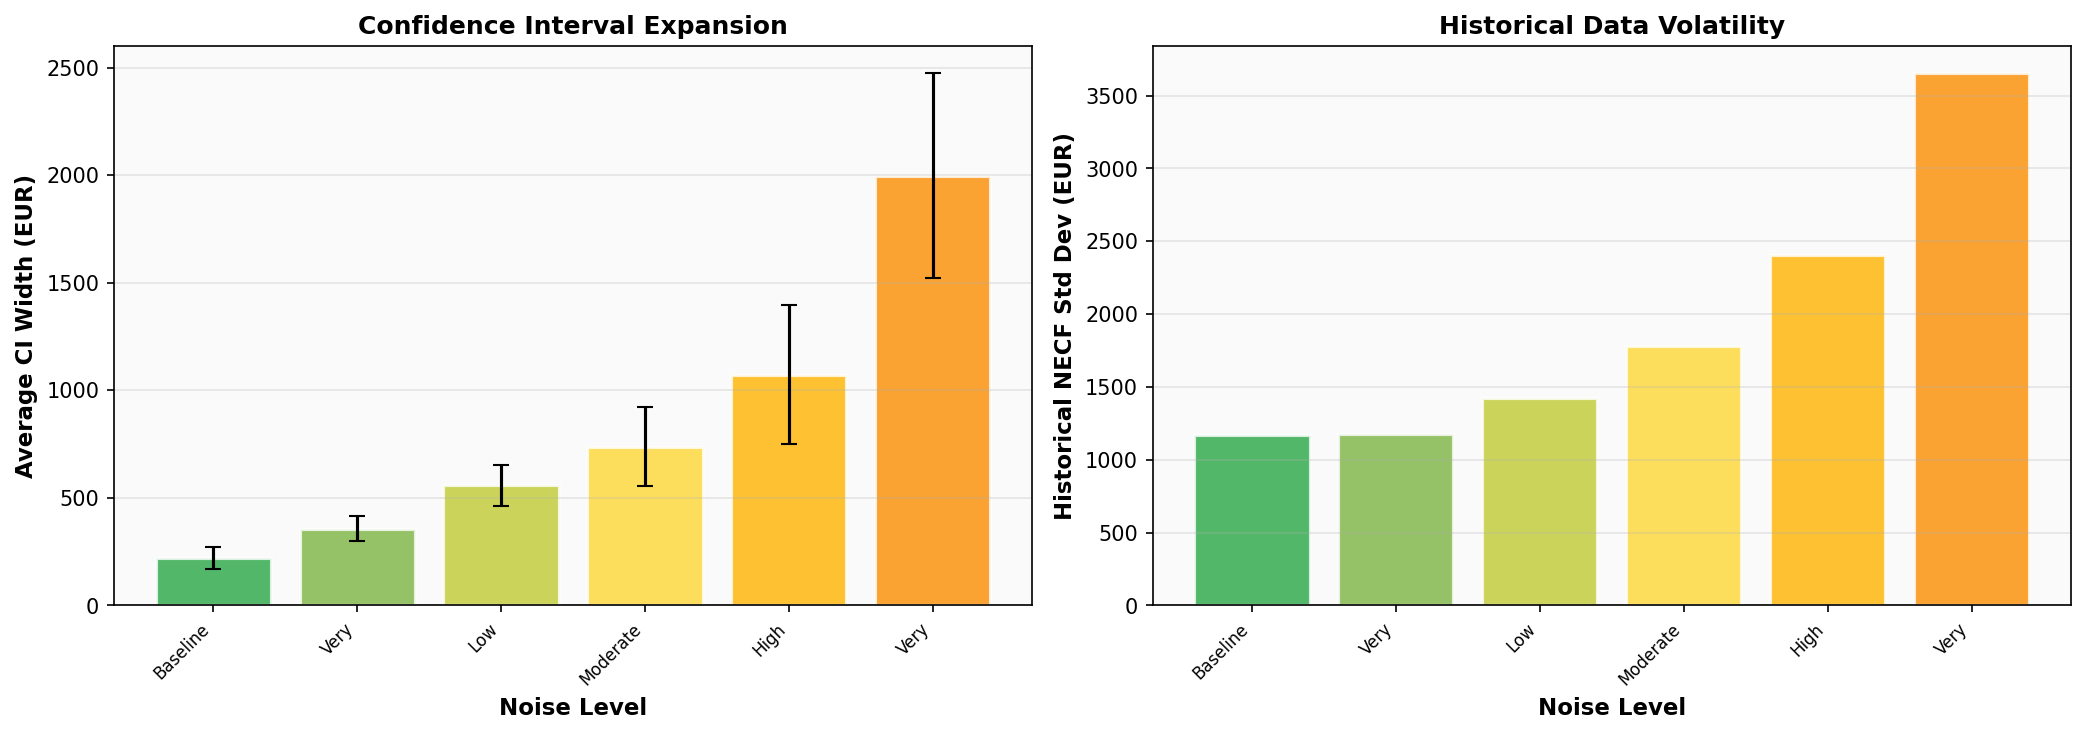
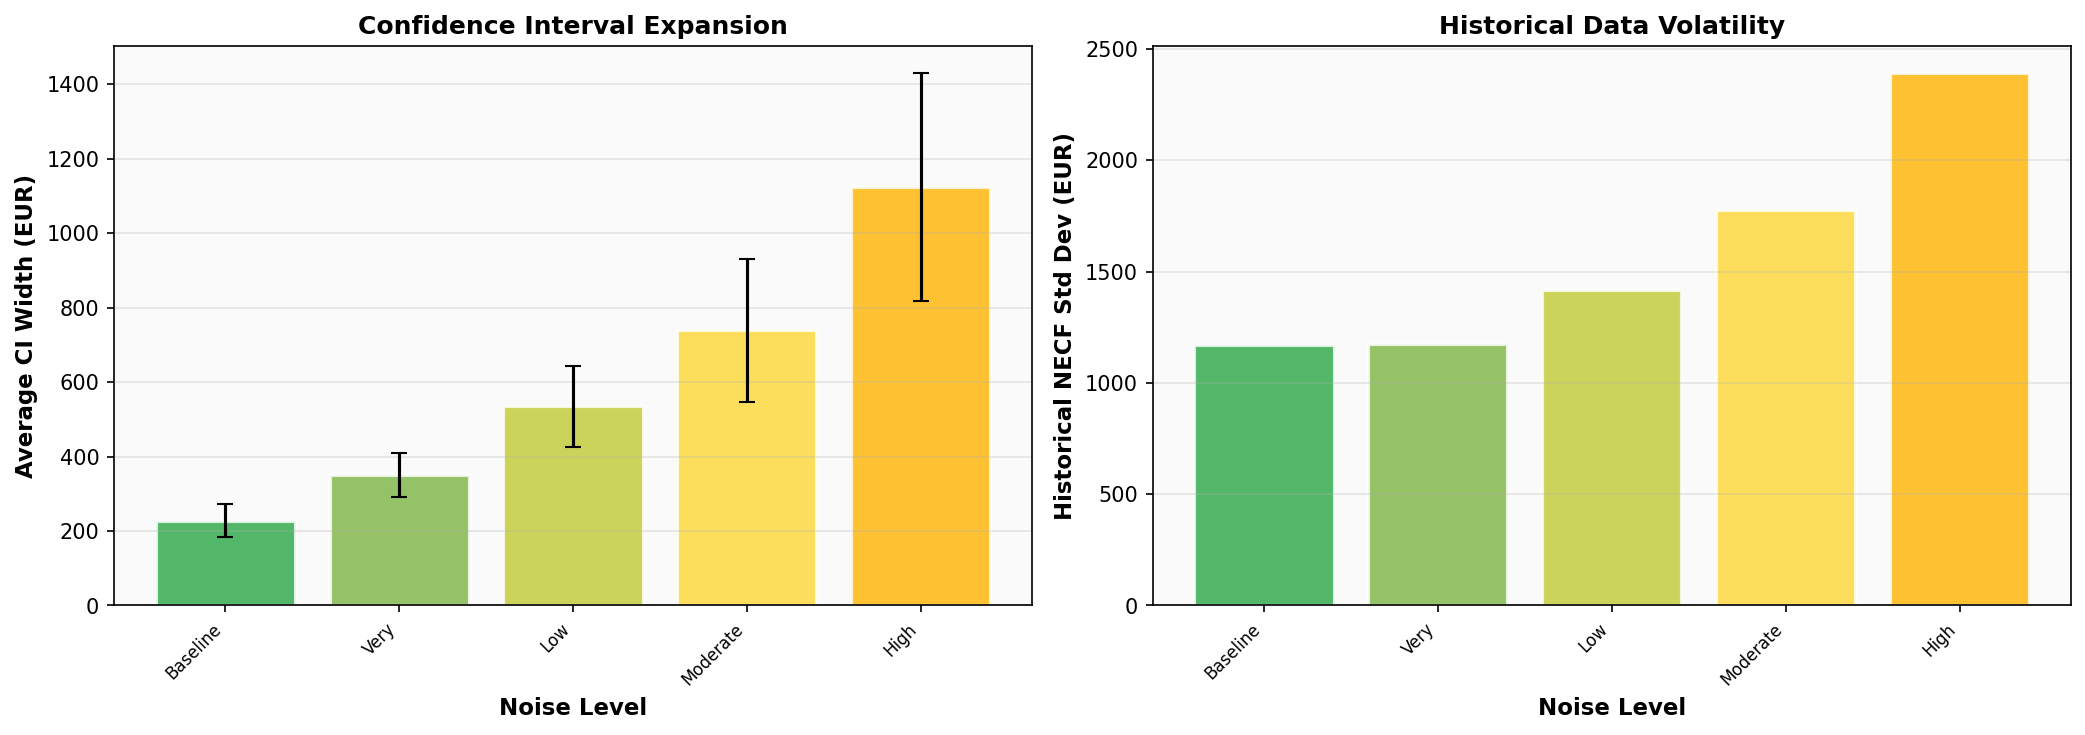
Refine noise sensitivity analysis: 5 levels × 30 seeds
- Remove Very High Noise level for focused analysis
- Increase sample size to 30 random seeds per noise level
- Total of 150 forecast runs for statistical robustness

Results summary:
- Baseline: 18.23% WMAPE, 63% pass rate
- Very Low: 21.70% WMAPE, 40% pass rate
- Low: 24.01% WMAPE, 37% pass rate
- Moderate: 29.46% WMAPE, 17% pass rate
- High: 31.97% WMAPE, 20% pass rate

ETS model wins 63-77% across all noise levels.

diff --git a/scripts/analyze_noise_sensitivity.py b/scripts/analyze_noise_sensitivity.py
@@ -51,7 +51,6 @@ NOISE_LEVELS = [
     NoiseConfig("Low Noise", 50, 20, 40, 1.2, 0.10, 400),
     NoiseConfig("Moderate Noise", 100, 40, 60, 1.5, 0.15, 600),
     NoiseConfig("High Noise", 200, 80, 100, 2.0, 0.20, 1000),
-    NoiseConfig("Very High Noise", 400, 150, 150, 3.0, 0.30, 1500),
 ]
 
 
@@ -309,7 +308,8 @@ def run_noise_analysis(seeds: List[int] = None) -> Dict[str, List[NoiseResult]]:
     """Run analysis across all noise levels with multiple seeds."""
     if seeds is None:
         seeds = [42, 123, 456, 789, 2024, 1337, 9999, 5555, 7777, 3141,
-                 1111, 2222, 3333, 4444, 6666, 8888, 1234, 5678, 9012, 3456]
+                 1111, 2222, 3333, 4444, 6666, 8888, 1234, 5678, 9012, 3456,
+                 1001, 2002, 3003, 4004, 5005, 6006, 7007, 8008, 9009, 1010]
 
     results = {}
 
@@ -360,7 +360,7 @@ def plot_wmape_vs_noise(results: Dict[str, List[NoiseResult]], output_path: str)
     # Styling
     ax.set_xlabel("Noise Level", fontsize=12, fontweight="bold")
     ax.set_ylabel("WMAPE (%)", fontsize=12, fontweight="bold")
-    ax.set_title("Model Accuracy Degradation Under Increasing Noise\n(Mean ± Std across 20 random seeds)",
+    ax.set_title("Model Accuracy Degradation Under Increasing Noise\n(Mean ± Std across 30 random seeds)",
                 fontsize=14, fontweight="bold", pad=20)
 
     ax.set_xticks(x)
@@ -498,7 +498,7 @@ def plot_model_selection_distribution(results: Dict[str, List[NoiseResult]], out
                    str(int(bar.get_height())), ha="center", va="bottom", fontsize=10)
 
     ax.set_xlabel("Noise Level", fontsize=12, fontweight="bold")
-    ax.set_ylabel("Number of Wins (out of 20 seeds)", fontsize=12, fontweight="bold")
+    ax.set_ylabel("Number of Wins (out of 30 seeds)", fontsize=12, fontweight="bold")
     ax.set_title("Model Selection Under Different Noise Conditions",
                 fontsize=14, fontweight="bold", pad=20)
 
@@ -589,7 +589,7 @@ def plot_threshold_pass_rate(results: Dict[str, List[NoiseResult]], output_path:
 
     ax.set_xlabel("Noise Level", fontsize=12, fontweight="bold")
     ax.set_ylabel("Pass Rate (%)", fontsize=12, fontweight="bold")
-    ax.set_title("Percentage of Runs Meeting WMAPE < 20% Threshold\n(20 random seeds per noise level)",
+    ax.set_title("Percentage of Runs Meeting WMAPE < 20% Threshold\n(30 random seeds per noise level)",
                 fontsize=14, fontweight="bold", pad=20)
 
     ax.set_xticks(x)
@@ -677,7 +677,7 @@ def main():
     print("NOISE SENSITIVITY ANALYSIS")
     print("=" * 60)
 
-    print(f"\nAnalyzing {len(NOISE_LEVELS)} noise levels with 20 random seeds each...")
+    print(f"\nAnalyzing {len(NOISE_LEVELS)} noise levels with 30 random seeds each...")
     results = run_noise_analysis()
 
     print("\nGenerating plots...")
